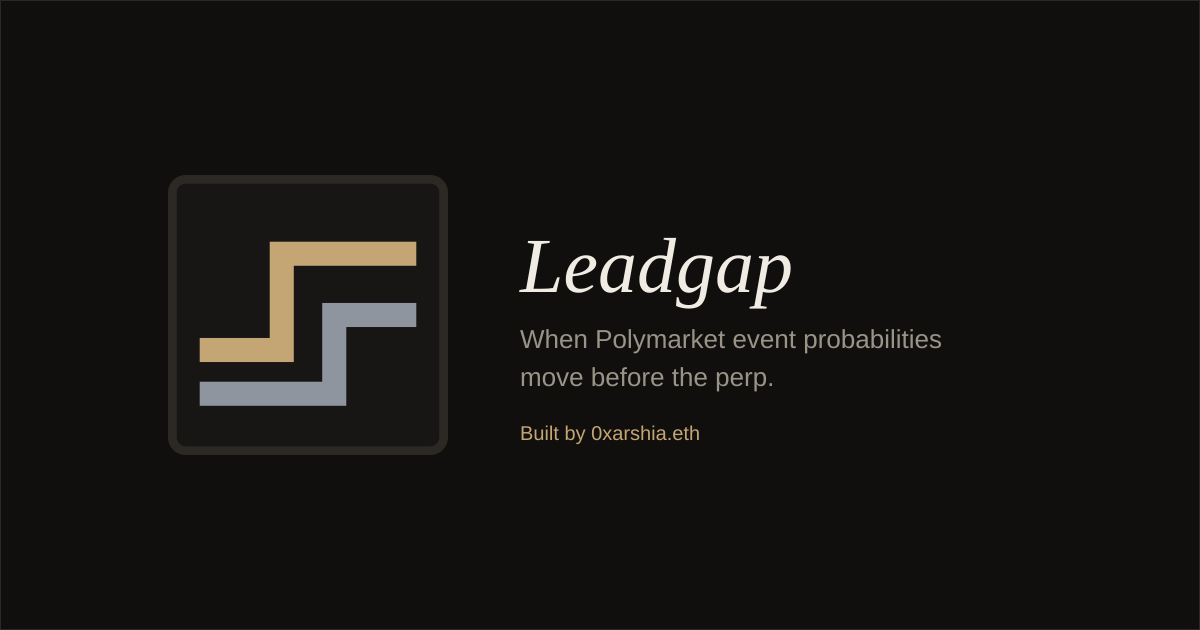
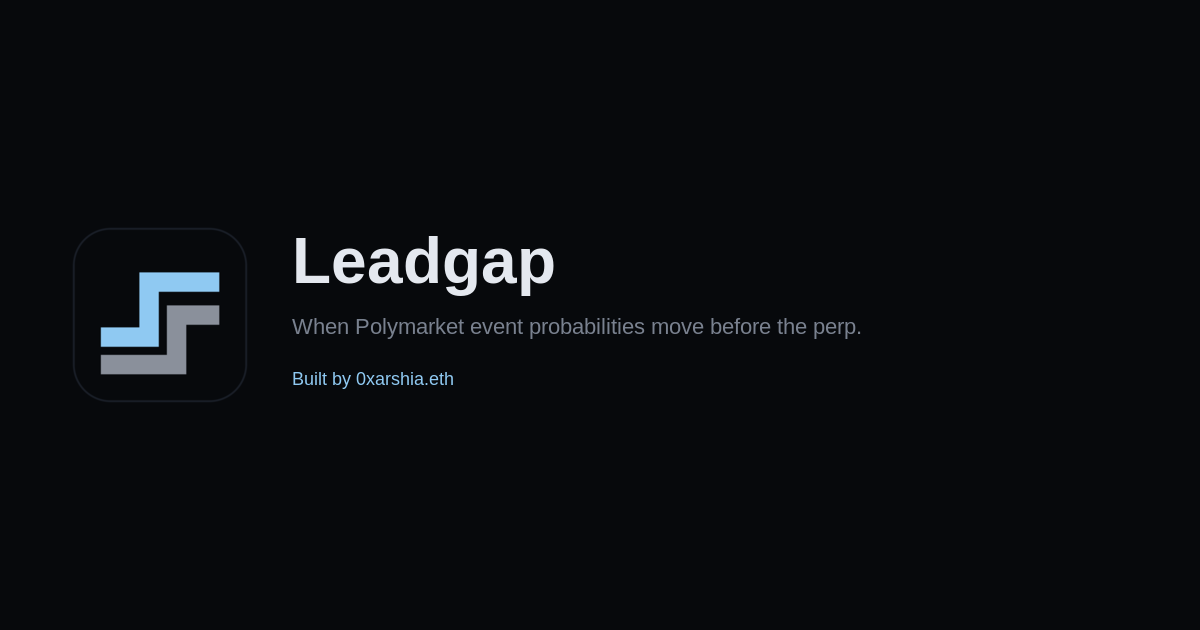
Redraw the Leadgap mark in ice and stone. (#6)
The logo now uses the terminal accent #8FC9F2 over #8A909B so header, favicon, login, and link previews match the site.

diff --git a/src/components/LogoMark.tsx b/src/components/LogoMark.tsx
@@ -1,17 +1,26 @@
-import Image from "next/image";
-import { APP_LOGO_RASTER } from "@/lib/brand";
 import { cn } from "@/lib/utils";
 
+/** Ice path leads; stone path lags. The empty band is the gap. */
 export function LogoMark({ className = "h-[22px] w-[22px]" }: { className?: string }) {
   return (
-    <Image
-      src={APP_LOGO_RASTER}
-      alt=""
-      width={512}
-      height={512}
-      className={cn("rounded-[5px] object-cover", className)}
-      aria-hidden
-    />
+    <svg viewBox="0 0 64 64" className={cn("shrink-0", className)} fill="none" aria-hidden>
+      <rect width="64" height="64" rx="14" fill="var(--bg)" />
+      <rect
+        x="1.25"
+        y="1.25"
+        width="61.5"
+        height="61.5"
+        rx="12.75"
+        stroke="var(--line)"
+        strokeWidth="1.5"
+      />
+      <rect x="10.5" y="36.5" width="21" height="7" fill="var(--odds)" />
+      <rect x="24.5" y="16.5" width="7" height="27" fill="var(--odds)" />
+      <rect x="24.5" y="16.5" width="29" height="7" fill="var(--odds)" />
+      <rect x="10.5" y="46.5" width="31" height="7" fill="var(--mark)" />
+      <rect x="34.5" y="28.5" width="7" height="25" fill="var(--mark)" />
+      <rect x="34.5" y="28.5" width="19" height="7" fill="var(--mark)" />
+    </svg>
   );
 }
 

diff --git a/src/app/layout.tsx b/src/app/layout.tsx
@@ -9,7 +9,7 @@ import { MobileTabBar } from "@/components/MobileTabBar";
 import { Providers } from "@/components/Providers";
 import { StatusStrip } from "@/components/StatusStrip";
 import { Toaster } from "@/components/ui/sonner";
-import { APP_LOGO_RASTER, APP_NAME, APP_ORIGIN, APP_TAGLINE } from "@/lib/brand";
+import { APP_LOGO, APP_LOGO_RASTER, APP_NAME, APP_ORIGIN, APP_TAGLINE } from "@/lib/brand";
 import { cn } from "@/lib/utils";
 
 export const metadata: Metadata = {
@@ -19,7 +19,13 @@ export const metadata: Metadata = {
     template: `%s · ${APP_NAME}`,
   },
   description: APP_TAGLINE,
-  icons: { icon: [{ url: APP_LOGO_RASTER, type: "image/png" }], apple: APP_LOGO_RASTER },
+  icons: {
+    icon: [
+      { url: APP_LOGO, type: "image/svg+xml" },
+      { url: APP_LOGO_RASTER, type: "image/png" },
+    ],
+    apple: APP_LOGO_RASTER,
+  },
   openGraph: {
     title: APP_NAME,
     description: APP_TAGLINE,

diff --git a/src/lib/privy.ts b/src/lib/privy.ts
@@ -1,6 +1,6 @@
 import type { PrivyClientConfig } from "@privy-io/react-auth";
 import { polygon } from "viem/chains";
-import { APP_LOGO_RASTER } from "@/lib/brand";
+import { APP_ACCENT, APP_LOGO_RASTER } from "@/lib/brand";
 
 /** Privy embedded wallets (and PrivyProvider itself) only run on HTTPS or localhost. */
 export function isSecureOrigin(): boolean {
@@ -16,7 +16,7 @@ export function getPrivyConfig(): PrivyClientConfig {
     loginMethods: ["email", "google", "wallet"],
     appearance: {
       theme: "dark",
-      accentColor: "#c4a574",
+      accentColor: APP_ACCENT,
       landingHeader: "Log in to Leadgap",
       loginMessage: "Email, Google, or a wallet.",
       logo: APP_LOGO_RASTER,

diff --git a/src/lib/brand.ts b/src/lib/brand.ts
@@ -1,6 +1,7 @@
 export const APP_NAME = "Leadgap";
 export const APP_TAGLINE = "When Polymarket event probabilities move before the perp.";
-export const APP_LOGO = "/leadgap-logo.png";
+export const APP_ACCENT = "#8FC9F2";
+export const APP_LOGO = "/leadgap-logo.svg";
 export const APP_LOGO_RASTER = "/leadgap-logo.png";
 export const APP_OG = "/og.png";
 export const PERPS_WAITLIST_URL = "https://polymarket.com/perps";
